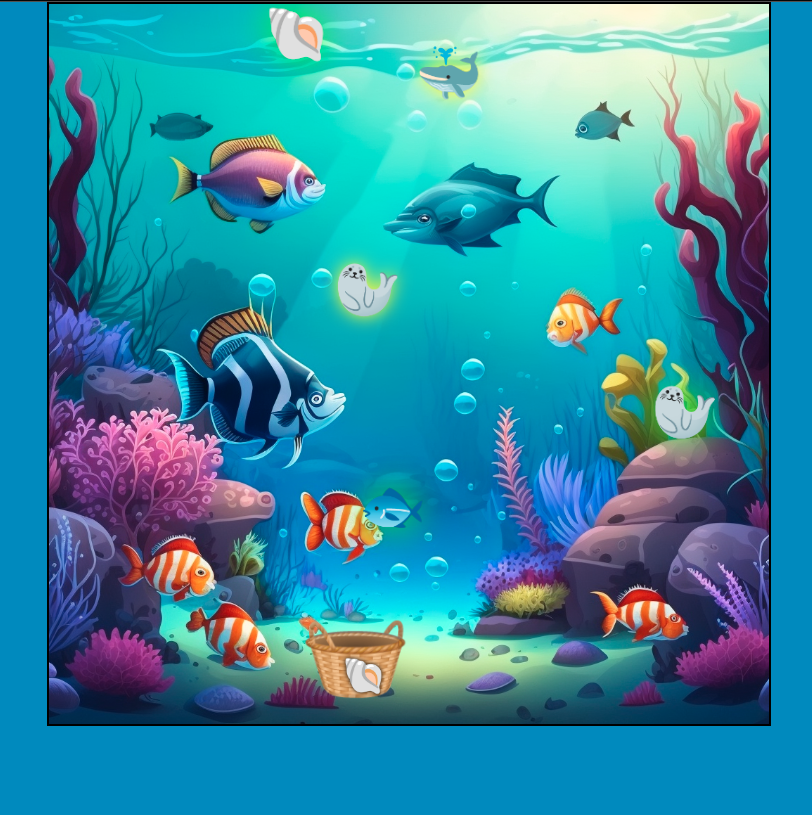
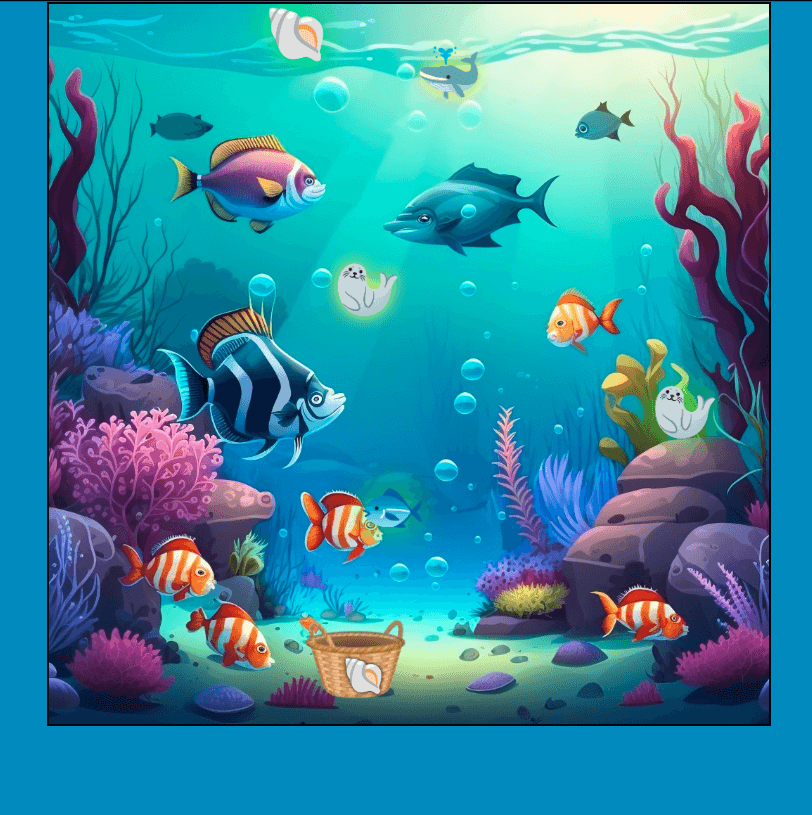
- compress a few screenshots - add text shadow generator - fix endGame in fishing game

diff --git a/tools/text_shadow_generator.html b/tools/text_shadow_generator.html
@@ -1,0 +1,229 @@
+<!DOCTYPE html>
+<html lang="en">
+<head>
+  <meta charset="UTF-8">
+  <title>Text Shadow Generator</title>
+  <style>
+      .text-container {
+          margin: 50px;
+          text-align: center;
+      }
+
+      .shadow-text {
+          font-size: 72px;
+          text-shadow: 0px 0px 0px #000000;
+      }
+
+      .shadow-controls {
+          margin: 50px;
+      }
+
+      .control-group {
+          display: flex;
+          align-items: center;
+          margin-bottom: 10px;
+      }
+
+      .control-group label {
+          margin-right: 10px;
+      }
+
+      .control-group input[type="number"] {
+          margin-left: 10px;
+          width: 50px;
+          text-align: center;
+      }
+
+      .control-group input[type="range"] {
+          flex: 1;
+          margin-left: 10px;
+      }
+
+      #text-shadow {
+          width: 100%;
+          margin-bottom: 10px;
+      }
+
+      #add-shadow {
+          display: block;
+          margin-top: 10px;
+      }
+      #app {
+          max-width: 50vw;
+          margin: 0 auto;
+      }
+      @media (max-width: 768px) {
+          #app {
+              max-width: 100vw;
+              margin: 0 auto;
+          }
+      }
+  </style>
+</head>
+<body>
+<div id="app">
+  <div class="text-container">
+    <h1 class="shadow-text">Sample Text</h1>
+  </div>
+
+  <div class="shadow-controls">
+    <h2>Text-Shadow Generator</h2>
+
+    <div class="control-group">
+      <label for="shift-right">Shift Right</label>
+      <input id="shift-right" type="range" min="-50" max="50" value="0">
+      <input id="shift-right-value" type="number" min="-50" max="50" value="0">
+    </div>
+
+    <div class="control-group">
+      <label for="shift-down">Shift Down</label>
+      <input id="shift-down" type="range" min="-50" max="50" value="0">
+      <input id="shift-down-value" type="number" min="-50" max="50" value="0">
+    </div>
+
+    <div class="control-group">
+      <label for="blur-radius">Blur Radius</label>
+      <input id="blur-radius" type="range" min="0" max="50" value="0">
+      <input id="blur-radius-value" type="number" min="0" max="50" value="0">
+    </div>
+
+    <div class="control-group">
+      <label for="opacity">Opacity</label>
+      <input id="opacity" type="range" min="0" max="1" step="0.01" value="1">
+      <input id="opacity-value" type="number" min="0" max="1" step="0.01" value="1">
+    </div>
+
+    <div class="control-group">
+      <label for="color">Color</label>
+      <input id="color" type="color" value="#000000">
+      <input id="color-value" type="text" value="#000000">
+    </div>
+
+    <div class="control-group">
+      <label for="text-shadow">Text Shadow</label>
+      <input id="text-shadow" type="text" value="">
+    </div>
+
+    <button id="add-shadow">Add Shadow</button>
+  </div>
+</div>
+<script type="text/javascript">
+  const shiftRightInput = document.getElementById('shift-right');
+  const shiftRightValue = document.getElementById('shift-right-value');
+  const shiftDownInput = document.getElementById('shift-down');
+  const shiftDownValue = document.getElementById('shift-down-value');
+  const blurRadiusInput = document.getElementById('blur-radius');
+  const blurRadiusValue = document.getElementById('blur-radius-value');
+  const opacityInput = document.getElementById('opacity');
+  const opacityValue = document.getElementById('opacity-value');
+  const colorInput = document.getElementById('color');
+  const colorValue = document.getElementById('color-value');
+  const textShadowInput = document.getElementById('text-shadow');
+  const addShadowButton = document.getElementById('add-shadow');
+
+  // Initialize inputs with default values
+  shiftRightInput.value = 0;
+  shiftRightValue.value = 0;
+  shiftDownInput.value = 0;
+  shiftDownValue.value = 0;
+  blurRadiusInput.value = 2;
+  blurRadiusValue.value = 2;
+  opacityInput.value = 100;
+  opacityValue.value = 1;
+  colorInput.value = '#000000';
+  colorValue.value = '#000000';
+
+  // Update input values when sliders are moved
+  shiftRightInput.addEventListener('input', () => {
+    shiftRightValue.value = shiftRightInput.value;
+    updateTextShadow();
+  });
+
+  shiftDownInput.addEventListener('input', () => {
+    shiftDownValue.value = shiftDownInput.value;
+    updateTextShadow();
+  });
+
+  blurRadiusInput.addEventListener('input', () => {
+    blurRadiusValue.value = blurRadiusInput.value;
+    updateTextShadow();
+  });
+
+  opacityInput.addEventListener('input', () => {
+  opacityValue.value = opacityInput.value / 100;
+    updateTextShadow();
+  });
+
+  colorInput.addEventListener('input', () => {
+    colorValue.value = colorInput.value;
+    updateTextShadow();
+  });
+
+  // Update slider values when number inputs are changed
+  shiftRightValue.addEventListener('input', () => {
+    shiftRightInput.value = shiftRightValue.value;
+    updateTextShadow();
+  });
+
+  shiftDownValue.addEventListener('input', () => {
+    shiftDownInput.value = shiftDownValue.value;
+    updateTextShadow();
+  });
+
+  blurRadiusValue.addEventListener('input', () => {
+    blurRadiusInput.value = blurRadiusValue.value;
+    updateTextShadow();
+  });
+
+  opacityValue.addEventListener('input', () => {
+    opacityInput.value = opacityValue.value;
+    updateTextShadow();
+  });
+
+  colorValue.addEventListener('input', () => {
+    colorInput.value = colorValue.value;
+    updateTextShadow();
+  });
+
+  // Add new text shadow to input
+  addShadowButton.addEventListener('click', () => {
+    const currentShadow = textShadowInput.value;
+    const rgbValue = hexToRgb(colorInput.value, opacityInput.value);
+    const newShadow = `${shiftRightInput.value}px ${shiftDownInput.value}px ${blurRadiusInput.value}px ${rgbValue}`;
+    textShadowInput.value = currentShadow ? `${currentShadow}, ${newShadow}` : newShadow;
+    clearInputs();
+    updateTextShadow();
+  });
+
+  function hexToRgb(hex, opacity = 1.0) {
+    const r = parseInt(hex.slice(1, 3), 16);
+    const g = parseInt(hex.slice(3, 5), 16);
+    const b = parseInt(hex.slice(5, 7), 16);
+    return `rgba(${r}, ${g}, ${b}, ${opacity})`;
+  }
+
+  // Update text shadow on text container
+  function updateTextShadow() {
+    const textContainer = document.querySelector('.text-container .shadow-text');
+    const textShadow = textShadowInput.value;
+    textContainer.style.textShadow = textShadow;
+  }
+
+  // Clear input values
+  function clearInputs() {
+    shiftRightInput.value = 0;
+    shiftRightValue.value = 0;
+    shiftDownInput.value = 0;
+    shiftDownValue.value = 0;
+    blurRadiusInput.value = 2;
+    blurRadiusValue.value = 2;
+    opacityInput.value = 1;
+    opacityValue.value = 1;
+    colorInput.value = '#000000';
+    colorValue.value = '#000000';
+  }
+
+</script>
+<script type="text/javascript" src="../sidebar.js"></script>
+</body>
+</html>

diff --git a/games/fishing.html b/games/fishing.html
@@ -157,6 +157,7 @@
   let timeRemaining = 61;
   let fishCaught = 0;
   let lastFishTime = 0;
+  let running = true;
 
   // Game elements
   const rodWidth = 10;
@@ -271,10 +272,15 @@
     gameOverEl.style.display = 'block';
     finalScoreEl.textContent = finalScore;
     fishCaughtEl.textContent = ''+fishCaught;
+    running = false;
   }
 
   // Handle player input
   function handleInput(event) {
+    if (!running) {
+      return;
+    }
+
     if (event.type === "touchstart" || event.type === "mousedown") {
       canvas.addEventListener(event.type === "touchstart" ? "touchmove" : "mousemove", moveHook);
       moveHook(event);
@@ -304,7 +310,7 @@
 
   // Update the time remaining
   setInterval(() => {
-    if (timeRemaining > 0) {
+    if (timeRemaining > 0 && running) {
       timeRemaining--;
 
       // Add a new fish every 5 seconds

diff --git a/index.html b/index.html
@@ -420,6 +420,13 @@
       <p>Create and customize CSS box shadows with ease using our Box-Shadow CSS Generator! With multiple options and parameters, the possibilities are endless!</p>
     </a>
   </div>
+  <div class="game-card">
+    <a href="tools/text_shadow_generator.html">
+      <img src="screenshots/screenshot_36.png" alt="Text Shadow Generator" loading="lazy">
+      <h2>Text Shadow Generator</h2>
+      <p>Level up your typography game with our quirky and fun Text Shadow Generator! Adjust shadows with ease and create unique, stunning text effects in seconds.</p>
+    </a>
+  </div>
 </div>
 <script src="sidebar.js" data-position="top-right"></script>
 <script>

diff --git a/sidebar.html b/sidebar.html
@@ -125,6 +125,7 @@
       <li><a href="/gptgames/tools/qr_generator.html">QR Code Generator</a></li>
       <li><a href="/gptgames/tools/markdown_converter.html">Markdown Converter</a></li>
       <li><a href="/gptgames/tools/box_shadow_generator.html">Box Shadow Generator</a></li>
+      <li><a href="/gptgames/tools/text_shadow_generator.html">Text Shadow Generator</a></li>
     </ul>
   </div>
 </div>

diff --git a/tools/box_shadow_generator.html b/tools/box_shadow_generator.html
@@ -183,6 +183,6 @@
 
   addShadowButton.addEventListener('click', addShadow);
 </script>
-<script src="../sidebar.js"></script>
+<script src="../sidebar.js" data-position="top-right"></script>
 </body>
 </html>
